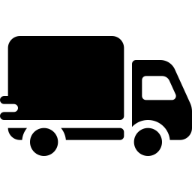
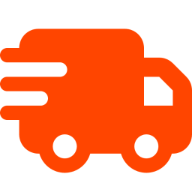
Add files via upload

diff --git a/index.html b/index.html
@@ -8,6 +8,9 @@
     <link rel="preload" as="image" href="house.webp" fetchpriority="high">
 
     <!-- PWA Manifest & Theme Settings -->
+    <link rel="apple-touch-icon" sizes="180x180" href="/apple-touch-icon.png">
+    <link rel="icon" type="image/png" sizes="32x32" href="/icon-32.png">
+    <link rel="icon" type="image/png" sizes="16x16" href="/icon-16.png">
     <link rel="manifest" href="/manifest.json">
     <meta name="theme-color" content="#FF4500">
 
